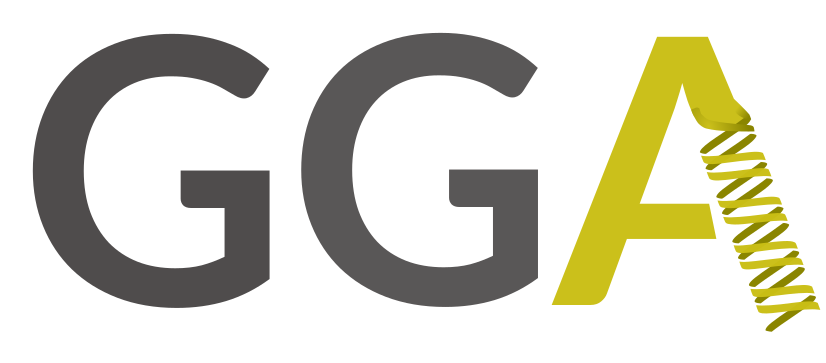
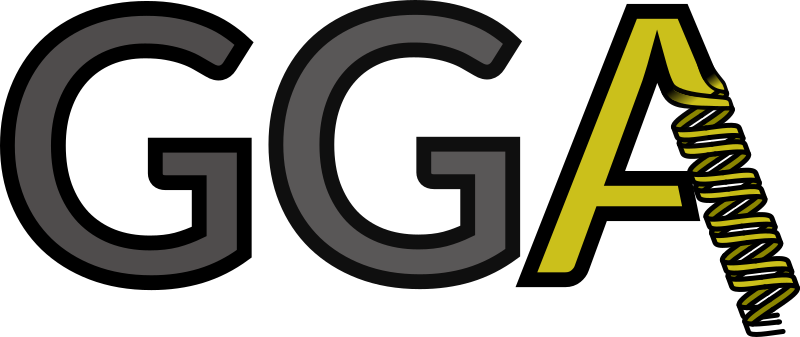
more progress, quitting for tonight

diff --git a/2017-GCC/main.tex b/2017-GCC/main.tex
@@ -1,8 +1,9 @@
 \documentclass[12pt]{phage3slides} %
 
 \logo{\includegraphics[width=1cm]{gga-small.png}}
-\title[Galaxy for Genome Annotation]{Galaxy Genome Annotation: Galaxy and GMOD for Annotation, Teaching, and Genomic Databases}
+\title[Galaxy for Genome Annotation, Teaching, Databases]{Galaxy Genome Annotation: Galaxy and GMOD for Annotation, Teaching, and Genomic Databases}
 \author[ER, BG, ND, AB]{Eric Rasche, Bj\"orn Gr\"uning, Nathan Dunn, Anthony Bretaudeau}
+\date{2017-06-29T13:50:00Z}
 
 \begin{document}
 \frame{\titlepage}
@@ -32,6 +33,9 @@
     Needs community, we are that community.
     Needs tooling, we're building that.
     Needs integrations, we're building that.
+    \begin{center}
+        \includegraphics[width=0.5\textwidth]{gga-clean.png}
+    \end{center}
 \end{frame}
 
 \subsection{Who}
@@ -52,17 +56,6 @@
 \subsection{What}
 \begin{frame}{What are we building?}
     \begin{itemize}
-        \item Small components enhancing integration
-        \item Standalone services augmenting the experience
-        \item Which all build to: Completely pre-configured
-            Galaxy+Apollo deployments with optional Tripal/Chado
-            additions
-    \end{itemize}
-\end{frame}
-
-\section{Projects}
-\begin{frame}{Overview of Projects}
-    \begin{itemize}
         \item Docker Image: Galaxy + Annotation Tools {\color{gray}(Apollo Tools, Tripal Admin Tools, Circos, JBrowse, BLAST+, InterProScan, Glimmer, Augustus, FASTA manipulation tools, Spades, Mira, CD-Hit, ClustalW, AntiSmash, mummer, EMBOSS, BLAST, Diamond, Blast2GO)}
         \item Dockerized GMOD Deployment {\color{gray}(Most GMOD projects pre-configured to work together seamlessly)}
         \item Apollo Client library {\color{gray}(+parsec like tool, ``Arrow'')}
@@ -70,18 +63,27 @@
     \end{itemize}
 \end{frame}
 
-
-\subsection{Docker Images}
-\begin{frame}{Docker Images}
+\subsection{Why}
+\begin{frame}{Why?}
     \begin{itemize}
-        \item Docker images for major GMOD projects (Apollo, Chado, Tripal)
-        \item Galaxy image with huge array of tools
-        \item Docker-compose configuration for entire deployment
+        \item Fun Challenges
+        \item Useful to real-life people, solve real problems
     \end{itemize}
 \end{frame}
 
 
-\subsection{Galaxy/Apollo}
+
+
+
+\section{Annotation}
+\begin{frame}{Annotation Infrastructure}
+    \begin{itemize}
+        \item Docker Image: Many annotation tools collected in a single place, pre-installed and ready to annotate
+        \item Easy to deploy connections to annotation backends (e.g. Apollo)
+        \item Peripheral tools to move data easily across annotation system boundaries %(Extract from Chado -> Load to Galaxy -> Analyse -> Push to Apollo)
+    \end{itemize}
+\end{frame}
+
 \begin{frame}{Galaxy / Apollo Bridge}
     \begin{itemize}
         \item Initially simple tooling to move data in/out of Apollo
@@ -94,39 +96,48 @@
 
 
 
-\section{Real Life}
+
+
+
+
+
+
+\section{Teaching}
 \begin{frame}{Course}
     \begin{itemize}
-        \item Used in Course
+        \item Course Background
         \item Current Course Applications
         \item Ongoing Expansions
-        \item Future Work
     \end{itemize}
 \end{frame}
-
 
 \subsection{Background}
 \begin{frame}{Course Background}
     \begin{itemize}
-        \item Undergraduate phage annotation course
+        \item Undergraduate Phage annotation course
         \item Genome sequence to publication
         \item (Parallel track for environmental sample to isolated phage)
+        \item Gigantic workflows using many of the tools pre-installed in image
+        \item Converging implementations; updates to our phage course + GGA suite
     \end{itemize}
 \end{frame}
 
 \subsection{Current}
 \begin{frame}{Current Applications}
     \begin{itemize}
-        \item Apollo for annotation
-        \item But how to democratize annotation?
-        \item Galaxy Tools can create genomes, update permissions
-        \item (But we do end up having to check user's apollo permissions at every step)
+        \item Apollo for annotation is amazing, ``google docs'' of genome annotation
+        \item Student+Faculty collaboration is easy
+        \item Faculty+Faculty collaboration is easy
+
+        \item Workflows (publicly available) for Phage Annotation
+        \item More workflows available from training-material repo for 
     \end{itemize}
 \end{frame}
 
 \subsection{Expansion}
 \begin{frame}{Applications}
     \begin{itemize}
+        % Too personal to CPT implementation?
         \item Using automated Chado export in Apollo
         \item Adding on Tripal + JBrowse-based public sequence display
         \item Internal sample tracking database
@@ -135,13 +146,35 @@
 \end{frame}
 
 
-\subsection{Future}
-\begin{frame}{Future Work}
+
+
+
+\section{Database}
+
+\begin{frame}{Genomic Databases}
     \begin{itemize}
-        \item More tools (IUC, GGA)
-        \item More annotation community
+        \item Perfect match
+        \item Reproducibility + generally unreproducible external databases
+        \item Democratization of resources. (Easier access control through galaxy tools)
+
+        \item But how to democratize annotation?
+        \item Galaxy Tools can create genomes, update permissions
+        \item (But we do end up having to check user's apollo permissions at every step)
     \end{itemize}
 \end{frame}
+
+\subsection{Tooling}
+\begin{frame}{Genomic Databases}
+    \begin{itemize}
+        \item Tools for querying annotation resources, answering specific questions. % TODO: integrate chado tools
+        \item Tools for fetching remote data into Galaxy
+        \item Galaxy is used for Analysis
+        \item Tools for creating new annotations from analysis results
+    \end{itemize}
+\end{frame}
+
+
+
 
 
 \section{Q\&A}
